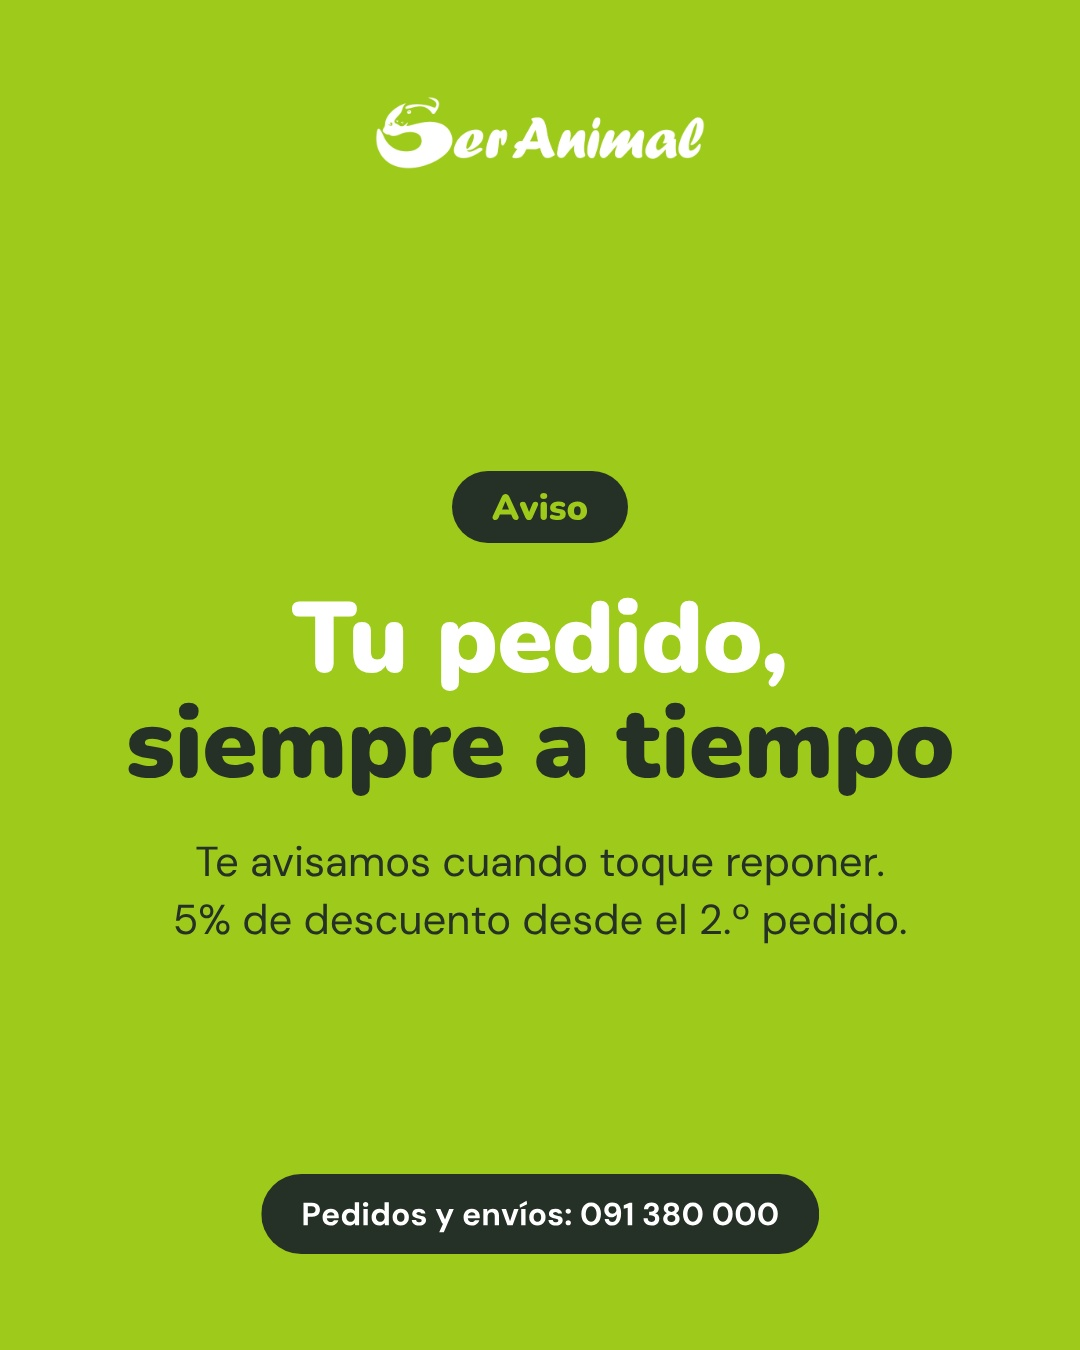
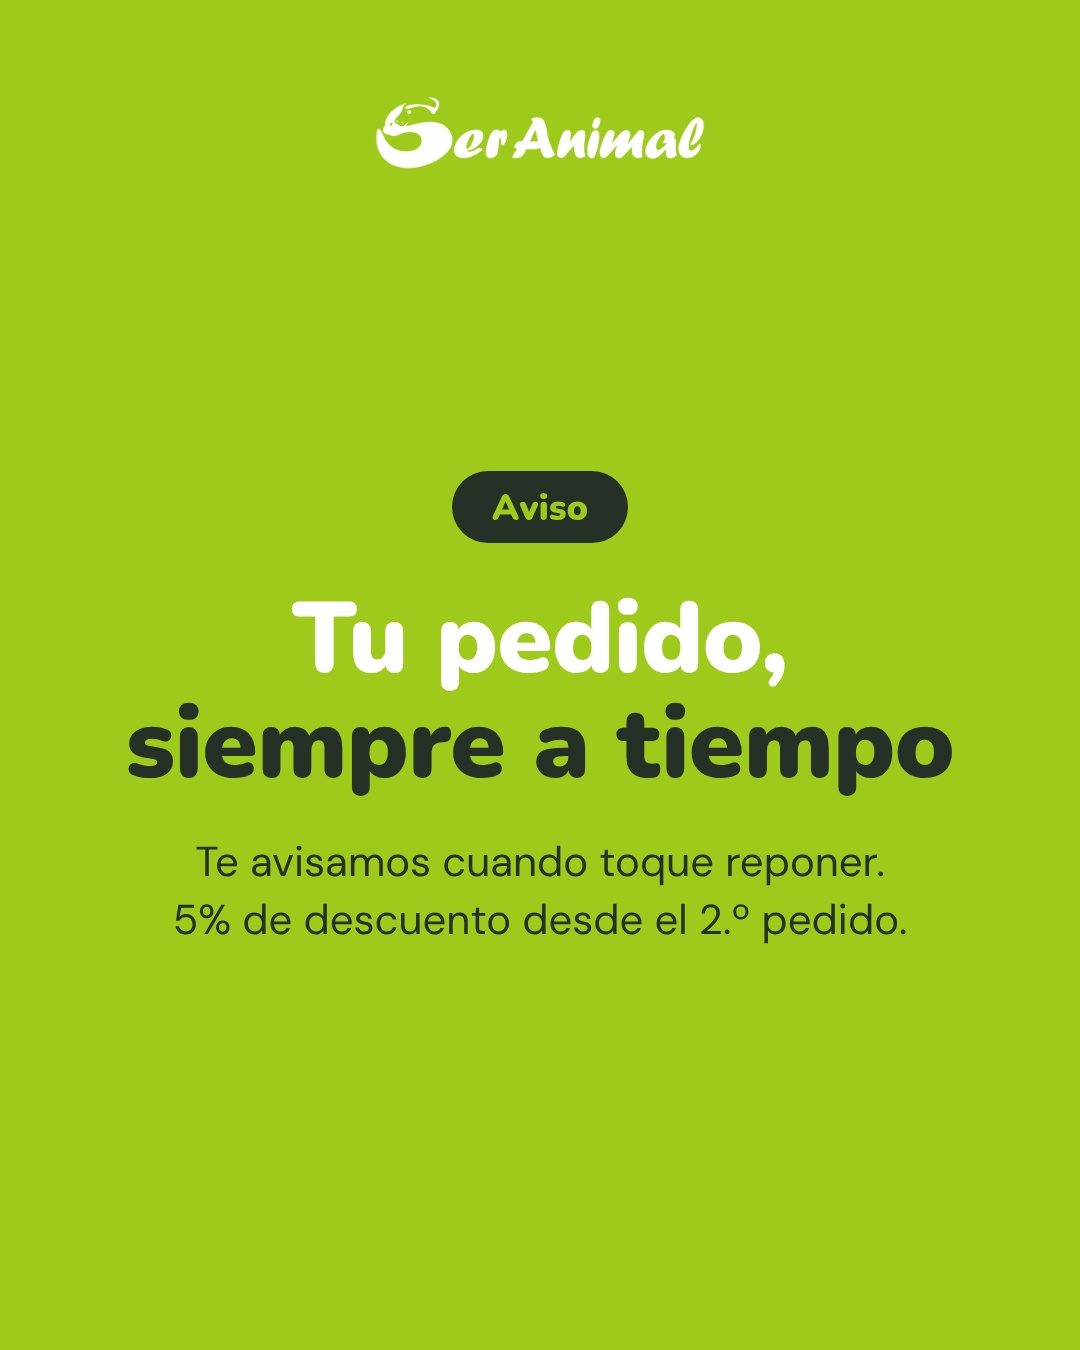
Feed estético: sin «Pedilo por WhatsApp» ni teléfonos en las imágenes
Se sacan la pastilla de producto, la del aviso y la línea de WhatsApp del
cierre (Studio y post de cobayos). El contacto va solo en el caption.

Claude-Session: https://claude.ai/code/session_01UFgb9cPkwjsoNhDLqTBRZN

Changed region(s): [[0.2444, 0.8711, 0.7639, 0.9333]]

diff --git a/studio/functions/api/generate.ts b/studio/functions/api/generate.ts
@@ -18,7 +18,7 @@ TONO
 
 TEXTOS QUE SIEMPRE SE ESCRIBEN IGUAL
 - Envíos: «Envío gratis a todo el país desde $1.500. En compras menores, $200.»
-- WhatsApp: «Pedidos y envíos: 091 380 000.» y «Atención al cliente: 092 121 212.»
+- WhatsApp: «Pedidos y envíos: 091 380 000.» y «Atención al cliente: 092 121 212.» Solo en el caption, nunca en las imágenes.
 - Pedido programado: «Te avisamos cuando toque reponer. 5% de descuento desde el 2.º pedido.»
 
 ESTRUCTURA DEL CARRUSEL
@@ -43,9 +43,9 @@ ESTRUCTURA DEL CARRUSEL
   - "dato": una idea por slide, con foto. "numero" = número de la idea en la lista (o 0 si no es una lista), "titulo" corto (máx. 40 caracteres) y "texto" de 1 o 2 oraciones (máx. 140 caracteres).
   - "texto": igual que "dato" pero sin foto, para ideas que no necesitan imagen.
   - "producto": un producto de la tienda sobre verde o blanco. Úsalo solo si el usuario nombra un producto concreto. La foto la sube el usuario, así que "busqueda_foto" va vacío.
-  - "producto-claro": la foto de catálogo del producto, grande, sobre fondo claro (fondo "blanco"). "titulo" = nombre del producto tal como lo escribió el usuario (máx. 40 caracteres); "texto" = una bajada concreta de 1 oración (máx. 90 caracteres) o vacío; "numero" = 0 (sin precio: la plantilla ya invita a pedir por WhatsApp). "busqueda_foto" vacío.
+  - "producto-claro": la foto de catálogo del producto, grande, sobre fondo claro (fondo "blanco"). "titulo" = nombre del producto tal como lo escribió el usuario (máx. 40 caracteres); "texto" = una bajada concreta de 1 oración (máx. 90 caracteres) o vacío; "numero" = 0 (sin precio). "busqueda_foto" vacío.
 - Avisos (envíos, pedido programado, horarios, cambios en la tienda): una sola slide "aviso", sin foto, con fondo "blanco" o "verde". "titulo" corto y directo (máx. 60 caracteres); encerrá entre *asteriscos* las 1 a 3 palabras clave para destacarlas en verde (ej. «Envío *gratis* a todo el país»). "texto" con el detalle (máx. 120 caracteres), usando los textos fijos de arriba cuando corresponda. Si el usuario pide 1 slide, el post es solo esa slide, sin cierre.
-- En carruseles de 3 slides o más, la última slide es "cierre": una pregunta o invitación a comentar en "titulo" (máx. 30 caracteres) y una frase corta en "texto". No pongas el WhatsApp en el texto: la plantilla ya lo incluye.
+- En carruseles de 3 slides o más, la última slide es "cierre": una pregunta o invitación a comentar en "titulo" (máx. 30 caracteres) y una frase corta en "texto". Nunca pongas el WhatsApp, teléfonos ni «pedilo» en las slides: el feed es estético; esos datos van solo en el caption.
 - Fondos de las slides intermedias y del cierre: alternás "blanco" y "verde", empezando por "blanco" después de la portada. El cierre va siempre en "verde".
 - "numero" vale 0 cuando no se usa.
 - "etiqueta": la serie del post, que se ve como pastilla en los estilos "foto-panel", "texto-editorial", "foto-enmarcada", "retrato", "producto-claro" y "aviso". Valores: "sabias-que" (curiosidades), "cuidalo-mejor" (consejos), "en-la-tienda" (productos), "familia" (clientes y comunidad), "novedad" (producto nuevo), "aviso" (avisos) o "" (sin etiqueta). Usala en la portada; en las slides interiores, "".

diff --git a/lineamientos/guia-instagram/index.html b/lineamientos/guia-instagram/index.html
@@ -295,7 +295,7 @@ Pedidos por WhatsApp: 091 380 000</pre>
       <article class="pilar">
         <img src="img/p4-producto.jpg" alt="">
         <div><h3>En la tienda</h3><span class="frec">1 o 2 por semana</span>
-          <p>Productos reales de Ser Animal: novedades, fichas con callouts y producto héroe. Solo datos confirmados y nunca precios: el llamado es «Pedilo por WhatsApp».</p>
+          <p>Productos reales de Ser Animal: novedades, fichas con callouts y producto héroe. Solo datos confirmados, nunca precios ni «pedilo»: se muestran lindos, para inspirar.</p>
           <p><b>Portada:</b> foto de uso, foto limpia, producto héroe o producto sobre fondo claro. <b>Etiqueta:</b> En la tienda o Novedad.</p></div>
       </article>
       <article class="pilar">
@@ -308,7 +308,7 @@ Pedidos por WhatsApp: 091 380 000</pre>
 
     <div class="ejemplo">
       <h3>Ejemplo · Cuidalo mejor</h3>
-      <p class="nota">Portada con foto real; después, una idea por slide alternando blanco y verde; cierre verde con el WhatsApp.</p>
+      <p class="nota">Portada con foto real; después, una idea por slide alternando blanco y verde; cierre verde con una pregunta para comentar.</p>
       <div class="tira">
         <img src="img/calor-1.jpg" alt="Slide 1: ¿Hace demasiado calor para pasear?">
         <img src="img/calor-2.jpg" alt="Slide 2: La prueba de los 7 segundos">
@@ -347,7 +347,7 @@ Pedidos por WhatsApp: 091 380 000</pre>
     </div>
     <div class="ejemplo">
       <h3>Para variar · Fondo claro</h3>
-      <p class="nota">Producto con su foto de catálogo sobre el fondo claro de la marca, y avisos solo con texto en blanco o verde. Sin precios: el llamado es a pedir por WhatsApp.</p>
+      <p class="nota">Producto con su foto de catálogo sobre el fondo claro de la marca, y avisos solo con texto en blanco o verde. Sin precios ni llamados a la venta: el feed es estético.</p>
       <div class="tira cuatro">
         <img src="img/claro-arenero.jpg" alt="Producto sobre fondo claro: arenero de acero inoxidable">
         <img src="img/claro-snack.jpg" alt="Producto sobre fondo claro: Brit Training S">

diff --git a/studio/src/plantillas.css b/studio/src/plantillas.css
@@ -96,7 +96,6 @@
 .slide .pc-bajada { margin-top: 18px; font-size: 38px; line-height: 1.35; color: #444d45; }
 .slide .pc-foto { position: absolute; left: 90px; right: 90px; top: 390px; bottom: 210px; }
 .slide .pc-foto img { width: 100%; height: 100%; object-fit: contain; mix-blend-mode: multiply; }
-.slide .pc-pedilo { position: absolute; left: 70px; bottom: 82px; height: 84px; }
 
 /* Aviso · solo texto (estilo 8) */
 .slide .aviso-logo { position: absolute; left: 50%; top: 96px; width: 330px; transform: translateX(-50%); }
@@ -109,7 +108,6 @@
 .slide.bg-verde .aviso-t { color: #fff; }
 .slide.bg-verde .aviso-t em { color: var(--texto); }
 .slide .aviso-x { margin-top: 36px; font-size: 42px; line-height: 1.38; white-space: pre-line; }
-.slide .aviso-pie { position: absolute; left: 50%; bottom: 96px; height: 80px; transform: translateX(-50%); }
 
 /* Estilos editoriales (referencia: el feed de Petz, en colores de Ser Animal) */
 
@@ -197,7 +195,6 @@
   position: absolute; left: 50%; top: 880px; width: 300px; height: 300px; transform: translateX(-50%);
   border-radius: 50%; overflow: hidden; border: 8px solid #fff; box-shadow: 0 18px 40px rgba(37, 48, 39, 0.2);
 }
-.slide .cierre-wa { position: absolute; left: 0; right: 0; bottom: 70px; text-align: center; font-size: 32px; font-weight: 500; }
 
 /* Título editorial sobre foto (estilos 14 y 15) y cita (16): texto blanco sin sombra fuerte, con un velo suave */
 .slide.titulo-foto .tf-velo { position: absolute; inset: 0; background: linear-gradient(180deg, rgba(37, 48, 39, 0.5) 0%, rgba(37, 48, 39, 0) 42%, rgba(37, 48, 39, 0) 72%, rgba(37, 48, 39, 0.45) 100%); }

diff --git a/studio/src/SlideView.tsx b/studio/src/SlideView.tsx
@@ -346,8 +346,6 @@ export const SlideView = forwardRef<HTMLDivElement, Props>(function SlideView({ 
             <div className="vacio-foto" style={{ borderRadius: 28 }}>Subí la foto del producto</div>
           )}
         </div>
-        {/* En redes nunca se publican precios: el llamado es a pedir por WhatsApp. */}
-        <img className="pc-pedilo" src="/elementos/pastilla-pedilo.svg" alt="Pedilo por WhatsApp" />
         {conDeslizar ? (
           <img className="deslizar" src="/elementos/deslizar-verde.svg" alt="" />
         ) : (
@@ -367,7 +365,6 @@ export const SlideView = forwardRef<HTMLDivElement, Props>(function SlideView({ 
           <div className="h aviso-t" style={{ fontSize: tam(slide.titulo, 100, 34) }}><Destacado texto={slide.titulo} /></div>
           {slide.texto && <div className="aviso-x">{slide.texto}</div>}
         </div>
-        <img className="aviso-pie" src="/elementos/pastilla-whatsapp.svg" alt="Pedidos y envíos: 091 380 000" />
         {conDeslizar && <img className="deslizar" src={`/elementos/deslizar-${verde ? "blanco" : "verde"}.svg`} alt="" />}
       </div>
     );
@@ -385,7 +382,6 @@ export const SlideView = forwardRef<HTMLDivElement, Props>(function SlideView({ 
           <div className="marco-foto"><FotoEncuadrada foto={fotoCierre} slide={slide.foto ? slide : { ...slide, fotoX: 50, fotoY: 50, fotoZoom: 1 }} /></div>
         </div>
       )}
-      <div className="cierre-wa">Pedidos y envíos por WhatsApp: <b>091 380 000</b></div>
     </div>
   );
 });

diff --git a/posts/2026-11-3-cosas-cobayos/fuente/index.html b/posts/2026-11-3-cosas-cobayos/fuente/index.html
@@ -57,7 +57,6 @@
   .close .ph{position:absolute;left:50%;top:880px;transform:translateX(-50%);width:300px;height:300px;border-radius:50%;
     overflow:hidden;border:8px solid #fff;box-shadow:0 18px 40px rgba(37,48,39,.2)}
   .close .ph img{width:100%;height:100%;object-fit:cover}
-  .close .wa{position:absolute;left:0;right:0;bottom:70px;font-size:32px;font-weight:500}
 </style>
 </head>
 <body>
@@ -104,7 +103,6 @@
   <div class="h q">¿Tenés un cobayo?</div>
   <div class="s">Contanos cómo se llama en los comentarios.</div>
   <div class="ph"><img src="assets/foto-portada.jpg" alt="" style="object-position:50% 40%"></div>
-  <div class="wa">Pedidos y envíos por WhatsApp: <b>091 380 000</b></div>
 </section>
 
 <script>

diff --git a/lineamientos/estilos-de-post.md b/lineamientos/estilos-de-post.md
@@ -9,10 +9,11 @@ Guía visual para que cada post y cada portada se vean parte del mismo feed. Las
 1. **Imágenes reales o que luzcan reales.** Fotos propias, de proveedor o generadas con IA (Higgsfield u otra) con aspecto fotográfico. Nada de ilustración ni 3D caricaturesco en las portadas.
 2. **El producto no se inventa.** Si la imagen es de IA, el producto tiene que ser idéntico al real: forma, color, logo y detalles. Siempre se parte de una foto real del producto como referencia.
 3. **Tres fondos posibles:** foto real, verde Ser Animal `#9ECA1B` o blanco (`#FFFFFF` / superficie `#F8FAF4`). Se van mezclando. No se usan otros colores de fondo, como naranja o amarillo.
-4. **Nunca se publican precios** de productos: ni en la imagen ni en el texto del posteo. El llamado es «Pedilo por WhatsApp». Los únicos montos que aparecen son los de los textos fijos de envíos ($1.500 / $200) y del pedido programado (5%).
-5. **Un solo acento: el verde.** El resto es blanco y el verde casi negro `#253027`.
-6. **El texto nunca tapa la cara del animal.**
-7. **Contenido de IA:** cuando la imagen es generada, se activa la etiqueta «Contenido de IA» de Instagram.
+4. **Nunca se publican precios** de productos: ni en la imagen ni en el texto del posteo. Los únicos montos que aparecen son los de los textos fijos de envíos ($1.500 / $200) y del pedido programado (5%).
+5. **El feed es estético.** Las imágenes no llevan llamados a la venta: nada de «Pedilo por WhatsApp», teléfonos ni botones. Lo que se ve tiene que ser lindo; el WhatsApp va, si hace falta, en el texto del posteo.
+6. **Un solo acento: el verde.** El resto es blanco y el verde casi negro `#253027`.
+7. **El texto nunca tapa la cara del animal.**
+8. **Contenido de IA:** cuando la imagen es generada, se activa la etiqueta «Contenido de IA» de Instagram.
 
 ---
 
@@ -133,7 +134,7 @@ Todos estos elementos están listos en **`marca/elementos/`** (SVG vectorial y P
 - **Qué es:** la foto de catálogo del producto, grande, sobre el fondo claro de la marca. Limpio y directo, como hacen Petz y otras tiendas grandes. Varía la grilla entre tantas fotos.
 - **Fondo:** superficie `#F8FAF4` con un brillo blanco en el centro. La foto del producto tiene que tener fondo blanco (la de la web sirve): se «multiplica» con el fondo y el blanco desaparece.
 - **Texto:** arriba a la izquierda. Nombre del producto en Nunito 900 `#253027`, 80–86 px; bajada opcional en DM Sans 38 px gris oscuro (qué es o para quién es, sin inventar).
-- **Abajo:** pastilla «Pedilo por WhatsApp» a la izquierda e isotipo verde a la derecha (o el sticker «Deslizá» si es carrusel).
+- **Abajo:** isotipo verde a la derecha (o el sticker «Deslizá» si es carrusel). Nada más: sin llamados a la venta.
 - **Sin precio.** Nunca.
 - **Cuándo:** novedades, reposiciones y productos puntuales. Puede ser portada o slide interior de un carrusel de producto.
 
@@ -146,7 +147,7 @@ Todos estos elementos están listos en **`marca/elementos/`** (SVG vectorial y P
 - **Etiqueta:** pastilla «Aviso» (`marca/elementos/etiqueta-aviso`); para productos nuevos existe «Novedad».
 - **Título:** Nunito 900, 90–100 px, centrado. Las 1 a 3 palabras clave van destacadas: verde hoja `#4C7300` sobre blanco; `#253027` sobre verde.
 - **Texto:** DM Sans 42 px, centrado, con los textos fijos de la marca cuando corresponda.
-- **Abajo:** pastilla «Pedidos y envíos: 091 380 000» (o «Atención al cliente: 092 121 212» si el aviso es de atención).
+- **Abajo:** nada. El dato de contacto, si hace falta, va en el texto del posteo.
 - **Cuándo:** un post suelto, sin carrusel. Como máximo uno cada 9 portadas.
 
 ---
@@ -229,7 +230,7 @@ Inspirados en el feed de Petz (`lineamientos/referencias/`), pero con la marca d
 
 1. **Slide 1, imagen real:** estilos 1, 1b, 2, 3, 5, 9, 10, 12, 13, 14, 15 o 16 (o 7 si el post es de un producto puntual; u 11 para una idea fuerte).
 2. **Slides siguientes, producto con colores de Ser Animal:** estilos 4, 6 o 7, o más fotos de uso. Se alterna verde y blanco entre slides.
-3. **Última slide (opcional), cierre:** «Pedilo por WhatsApp: 091 380 000» y la frase de envíos.
+3. **Última slide (opcional), cierre:** logo, una pregunta para comentar y una frase corta. Sin teléfono ni «pedilo»: eso va en el texto del posteo.
 
 Los avisos (estilo 8) van como post de una sola imagen.
 

diff --git a/CLAUDE.md b/CLAUDE.md
@@ -41,7 +41,8 @@ Seguir siempre `lineamientos/estilos-de-post.md`. Resumen:
 - Español rioplatense con voseo: «elegí», «buscá», «sumate».
 - Mayúscula solo al principio de títulos y botones.
 - Decir qué es, para quién es y cómo llega.
-- **Nunca se publican precios** de productos en redes (ni en la imagen ni en el posteo). El llamado es a pedir por WhatsApp. Los únicos montos permitidos son los de los textos fijos de envíos y pedido programado.
+- **Nunca se publican precios** de productos en redes (ni en la imagen ni en el posteo). Los únicos montos permitidos son los de los textos fijos de envíos y pedido programado.
+- **El feed es estético:** las imágenes no llevan «Pedilo por WhatsApp», teléfonos ni llamados a la venta. El WhatsApp va, si hace falta, solo en el texto del posteo.
 - No inventar descuentos, plazos ni datos. Sin exclamaciones de más ni frases vacías.
 
 ## Textos que siempre se escriben igual
